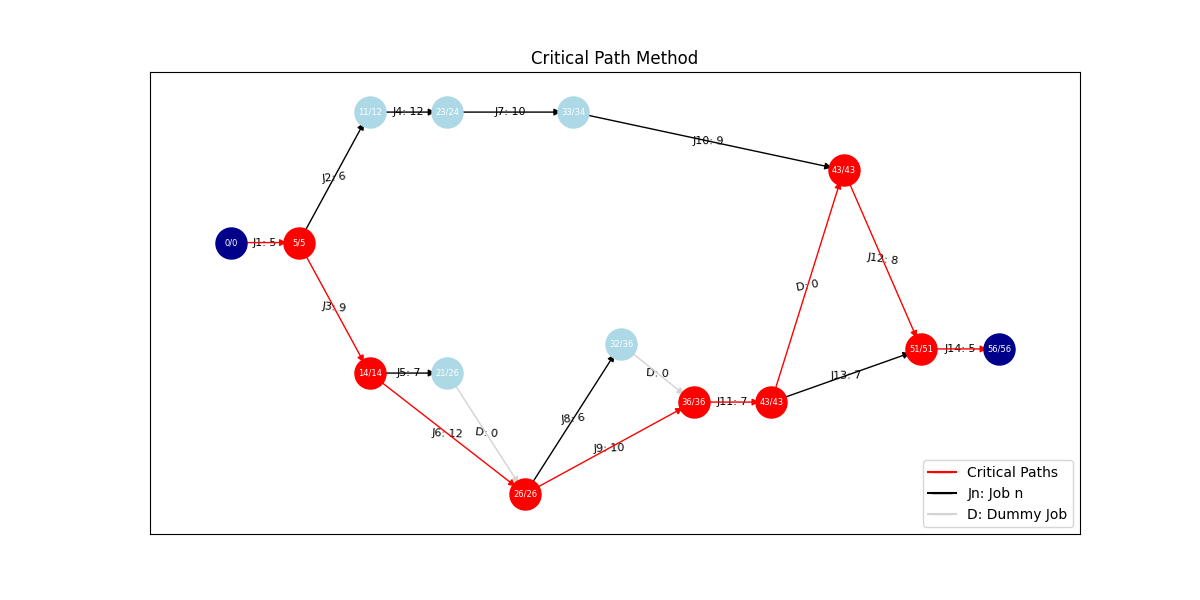
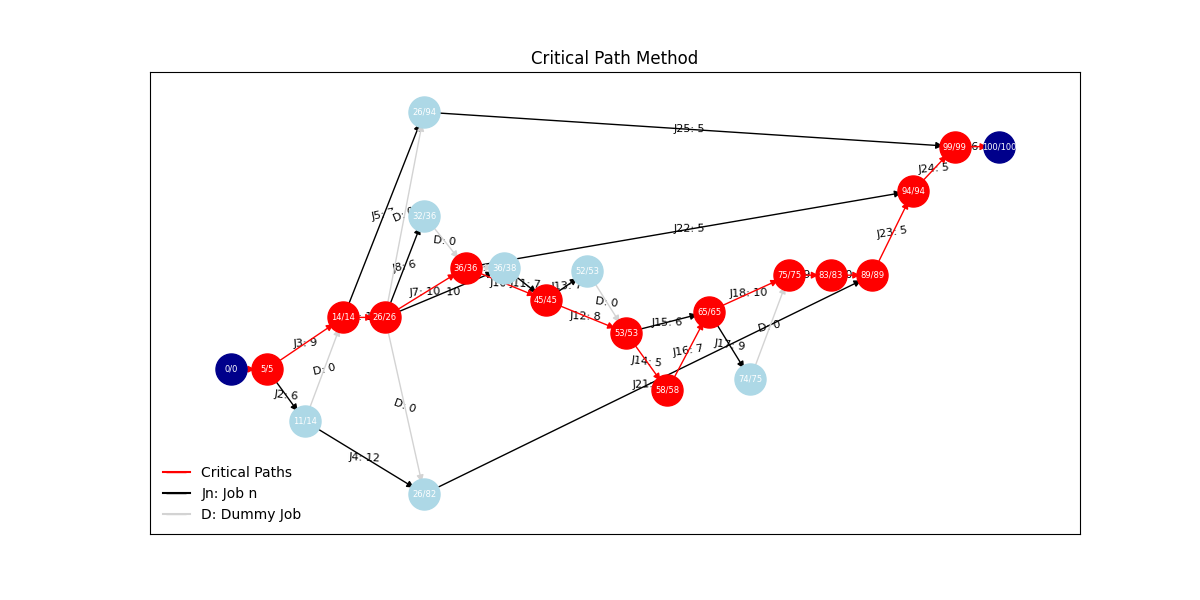
PERT updated

diff --git a/PERT/main.py b/PERT/main.py
@@ -1,0 +1,65 @@
+import sys
+import json
+from os.path import realpath, dirname
+from CPM import *
+from job_PERT import PJob
+from visualize import visualize_CPM, DEAFULT_PATH
+import matplotlib.pyplot as plt
+import seaborn as sns
+import numpy as np
+from collections import defaultdict
+
+def main():
+    if len(sys.argv) > 1:
+        inputpath = sys.argv[1]
+    if len(sys.argv) > 2:
+        outputpath = sys.argv[2]
+    else:
+        inputpath = dirname(realpath(__file__))+'/input/example.json'
+        outputpath = DEAFULT_PATH
+
+    with open(inputpath, 'r') as f:
+        jobs_dict = json.load(f)
+    
+    makespans = []
+    critical_paths = defaultdict(int)
+    tmp = {}
+    for i in range(1000):
+        jobs, CPM_results = cal(jobs_dict)
+        earliest_start_time, earliest_finish_time, latest_start_time, latest_finish_time, slacks, critical_path, makespan = CPM_results
+        makespans += [makespan]
+        critical_paths[str(critical_path)] += 1
+        tmp[str(critical_path)] = (jobs, CPM_results)
+
+    plt.figure()
+    mean_makespan = np.mean(makespans)
+    quantiles = np.quantile(makespans, [0.25, 0.5, 0.75])
+    sns.kdeplot(makespans, fill=True)
+    plt.title('Density Plot of Makespans')
+    plt.xlabel('Makespan')
+
+    plt.figure()
+    sns.boxplot(makespans, color='lightblue')
+    plt.title('Box Plot of Makespans')
+    plt.xlabel('Makespan')
+
+
+    max_key = max(critical_paths, key=critical_paths.get)
+    print(max_key, critical_paths[max_key]/1000)
+    jobs, CPM_results = tmp[max_key]
+    visualize_CPM(jobs, CPM_results)
+
+
+def cal(jobs_dict):
+    # Convert the dictionary back to Job objects
+    jobs = {id: PJob(**job_data) for id, job_data in jobs_dict.items()}
+
+    # Create the network and add jobs and dependencies
+    network = Network(jobs)
+
+    # Run the CPM algorithm
+    CPM_results = CPM(network)
+    return jobs, CPM_results
+
+if __name__ == '__main__':
+    main()

diff --git a/PERT/visualize.py b/PERT/visualize.py
@@ -5,6 +5,7 @@ import matplotlib.lines as mlines
 import os
 from networkx.drawing.nx_agraph import graphviz_layout
 from collections import defaultdict
+from numpy import round as rd
 from CPM import *
 
 # Define a class State to represent each state with its incoming and outgoing jobs
@@ -176,20 +177,13 @@ def visualize_CPM(jobs, CPM_results, outputpath=DEAFULT_PATH) -> None:
 
     graph.graph['graph'] = {'rankdir': 'LR'}
 
-    for state in states.values():
-        if state.id == '0':
-            graph.add_node(state, label='0/0')
-        else:
-            eft, lft = state.done_time(earliest_finish_time, latest_finish_time)
-            graph.add_node(state, label=f'{eft}/{lft}')
-
     # Add edges based on the states
     for state in states.values():
         for outgoing in state.outgoing:
             if not outgoing.is_dummy:
-                graph.add_edge(state, states[outgoing.id], label=f"J{str(outgoing)}: {outgoing.duration}", is_critical=(outgoing in critical_path), is_dummy=False)
+                graph.add_edge(state, states[outgoing.id], label=f"J{str(outgoing)}", is_critical=(outgoing in critical_path), is_dummy=False)
             else:
-                graph.add_edge(state, states[outgoing.id], label='D: 0', is_critical=(state.is_critical and states[outgoing.id].is_critical), is_dummy=True)
+                graph.add_edge(state, states[outgoing.id], label='D', is_critical=(state.is_critical and states[outgoing.id].is_critical), is_dummy=True)
 
     # Draw the graph
     plt.figure(figsize=(12, 6))
@@ -237,5 +231,5 @@ def visualize_CPM(jobs, CPM_results, outputpath=DEAFULT_PATH) -> None:
     # Add the legend to the plot
     plt.legend(handles=[c_line, j_line, d_line], loc='lower left', frameon=False)
 
-    plt.savefig(outputpath+'/PERT.png')
+    plt.savefig(outputpath+'/CPM.png')
     plt.show()

diff --git a/PERT/job_PERT.py b/PERT/job_PERT.py
@@ -1,0 +1,17 @@
+from CPM import Job
+import numpy as np
+
+def PJob(id, optimistic, normal, pessimistic, predecessors, is_dummy=False, prev_state=None) -> None:
+    duration = calculate_duration(optimistic, normal, pessimistic)
+    return Job(id, duration, predecessors, is_dummy, prev_state)
+
+def calculate_duration(optimistic, normal, pessimistic):
+    mean = (optimistic + 4*normal + pessimistic)/6
+    std_dev = np.absolute((pessimistic-optimistic)/6)
+    duration = np.random.normal(mean, std_dev)
+    if duration < optimistic:
+        duration = optimistic
+    elif duration > pessimistic:
+        duration = pessimistic
+    return duration
+

diff --git a/PERT/CPM.py b/PERT/CPM.py
@@ -1,6 +1,5 @@
 from collections import defaultdict
-from copy import deepcopy
-
+import numpy as np
 
 class Job:
     def __init__(self, id, duration, predecessors, is_dummy=False, prev_state=None) -> None:
@@ -163,7 +162,7 @@ def calculate_slacks(jobs, earliest_start_time, latest_start_time) -> dict:
 
 
 def calculate_critical_path(slacks) -> list:
-    critical_path = [job for job, slack_time in slacks.items() if slack_time == 0]
+    critical_path = [job for job, slack_time in slacks.items() if np.round(slack_time, 1) == 0.0]
     return sorted(critical_path, key=(lambda x : int(x.id)))
 
 

diff --git a/PERT/README.md b/PERT/README.md
@@ -1,0 +1,51 @@
+# Scheduling Theory - Project Evaluation and Review Technique (PERT)
+This project provides an implementation of the Project Evaluation and Review Technique (PERT), a statistical tool used in project management that is designed to analyze and represent the tasks involved in completing a given project.
+
+
+## Files
+
+- `CPM.py`: This file contains the implementation of the CPM algorithm, with classes defined for Job and Network, and various functions for calculating earliest times, latest times, slacks, and the critical path.
+
+- `job_PERT.py`: This file extends the Job class in CPM.py to include the variance of the duration of each job, a key aspect in PERT analysis.
+
+- `visualize.py`: This file contains the code for visualizing the network of jobs using networkx and matplotlib. It creates a directed graph based on job states and illustrates critical and non-critical paths in the project network. The output is saved as a PNG file.
+
+- `main.py`: This is the main script that you run to execute the program. It reads the job data from a json file, creates the network, runs the PERT analysis, and visualizes the job network.
+
+## Usage
+
+To use this program, you must first provide a json file with the job data.
+Here is an example of the data file format:
+
+```json
+{
+    "1": { "id": "1", "optimistic": 2, "normal": 5, "pessimistic": 6, "predecessors": [] },
+    "2": { "id": "2", "optimistic": 2, "normal": 6, "pessimistic": 9, "predecessors": [1] },
+    "3": { "id": "3", "optimistic": 4, "normal": 9, "pessimistic": 10, "predecessors": [1] },
+    ...
+}
+```
+
+Each job is represented by a dictionary where the key is the job id and the value is another dictionary with the job's properties. The job's properties include its duration, an array of its predecessors (other jobs that need to be completed before this job can start), and the variance in the duration of the job.
+
+To run the program, execute the main.py script with the path to your json file and the directory where the output files will be saved as arguments:
+
+```bash
+python main.py 'input_filename' 'output_directory'
+```
+
+The program will perform a PERT analysis on the job data and output the results as a network diagram showing the jobs and their dependencies, as well as a density plot and a box plot showing the distribution of makespans (the total time required to complete the project). The network diagram and density plot are saved as PNG files in the specified output directory.
+
+![image not found](output/CPM.png)
+
+## Dependencies
+
+This project requires the following Python libraries:
+
+- `numpy`
+- `seaborn`
+- `networkx`
+- `matplotlib`
+- `pygraphviz`
+- `collections`
+- `json`

diff --git a/README.md b/README.md
@@ -7,10 +7,15 @@ This repository contains code implementations of various scheduling algorithms, 
 Currently, the repository contains the following implementations:
 
 - [Critical Path Method (CPM)](./CPM/)
+- [Project Evaluation and Review Technique](./PERT/)
 
 The Critical Path Method (CPM) is a project modeling technique used in project management to identify critical and non-critical tasks and prevent schedule conflicts and bottlenecks.
 
 To get started with the CPM, navigate to the [CPM directory](./CPM/).
+
+The Project Evaluation and Review Technique (PERT) is a statistical tool used in project management, designed to analyze and represent the tasks involved in completing a given project. It provides a graphical representation of a project's timeline that allows project managers to identify the critical path of tasks that directly impact the project completion time.
+
+To get started with PERT, navigate to the PERT [directory](./PERT/).
 
 ## Getting Started
 

diff --git a/CPM/README.md b/CPM/README.md
@@ -50,3 +50,4 @@ This project requires the following Python libraries:
 - `matplotlib`
 - `pygraphviz`
 - `collections`
+- `json`
